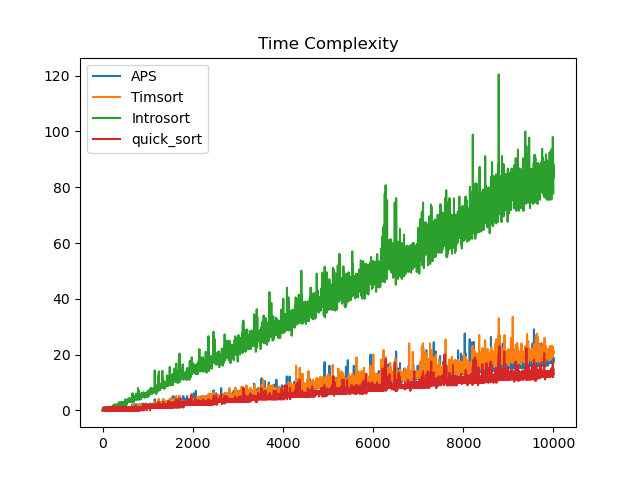
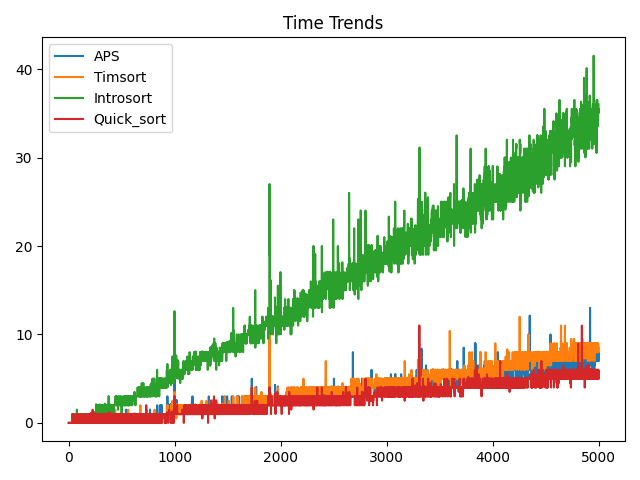
d

diff --git a/complexity_trends.py b/complexity_trends.py
@@ -4,7 +4,7 @@ import tracemalloc
 
 import matplotlib.pyplot as plt
 
-from sorting.aps import adaptive_partition_sort
+from sorting.quick_aps import quick_aps
 from sorting.introsort import introsort
 from sorting.timsort import timsort
 from sorting.quicksort import quick_sort
@@ -14,14 +14,14 @@ timsort_t, timsort_m = [], []
 introsort_t, introsort_m = [], []
 quick_sort_t, quick_sort_m = [], []
 
-N = 10000
+N = 5000
 
 # time
 for i in range(1, N + 1):
     rand = [random.randint(0, i) for _ in range(i)]
 
     start = time.time()
-    arr = adaptive_partition_sort(rand)
+    arr = quick_aps(rand)
     end = time.time()
     aps_t.append((end - start) * 1000)
 
@@ -58,7 +58,7 @@ for i in range(1, N + 1):
     rand = [random.randint(0, i) for _ in range(i)]
 
     tracemalloc.start()
-    arr = adaptive_partition_sort(rand)
+    arr = quick_aps(rand)
     current, peak = tracemalloc.get_traced_memory()
     aps_m.append(peak)
     tracemalloc.stop()

diff --git a/sorting/quick_aps.py b/sorting/quick_aps.py
@@ -1,4 +1,7 @@
-def adaptive_partition_sort(arr):
+import copy
+
+
+def quick_aps(arr):
     def quick_sort(arr, low, high):
         if low >= high:
             return
@@ -48,7 +51,7 @@ if __name__ == "__main__":
         rand = [random.randint(0, 100000) for _ in range(100000)]
         arr = rand.copy()
         start = time.time()
-        adaptive_partition_sort(arr)
+        quick_aps(arr)
         end = time.time()
         t.append(end - start)
         print("Time Routine:", i, sorted(rand) == arr)
@@ -57,7 +60,7 @@ if __name__ == "__main__":
         rand = [random.randint(0, 100000) for _ in range(100000)]
         arr = rand.copy()
         tracemalloc.start()
-        adaptive_partition_sort(arr)
+        quick_aps(arr)
         current, peak = tracemalloc.get_traced_memory()
         tracemalloc.stop()
         m.append(peak)

diff --git a/sorting/quicksort.py b/sorting/quicksort.py
@@ -1,5 +1,3 @@
-
-
 def quick_sort(arr):
     if len(arr) <= 1:
         return arr
